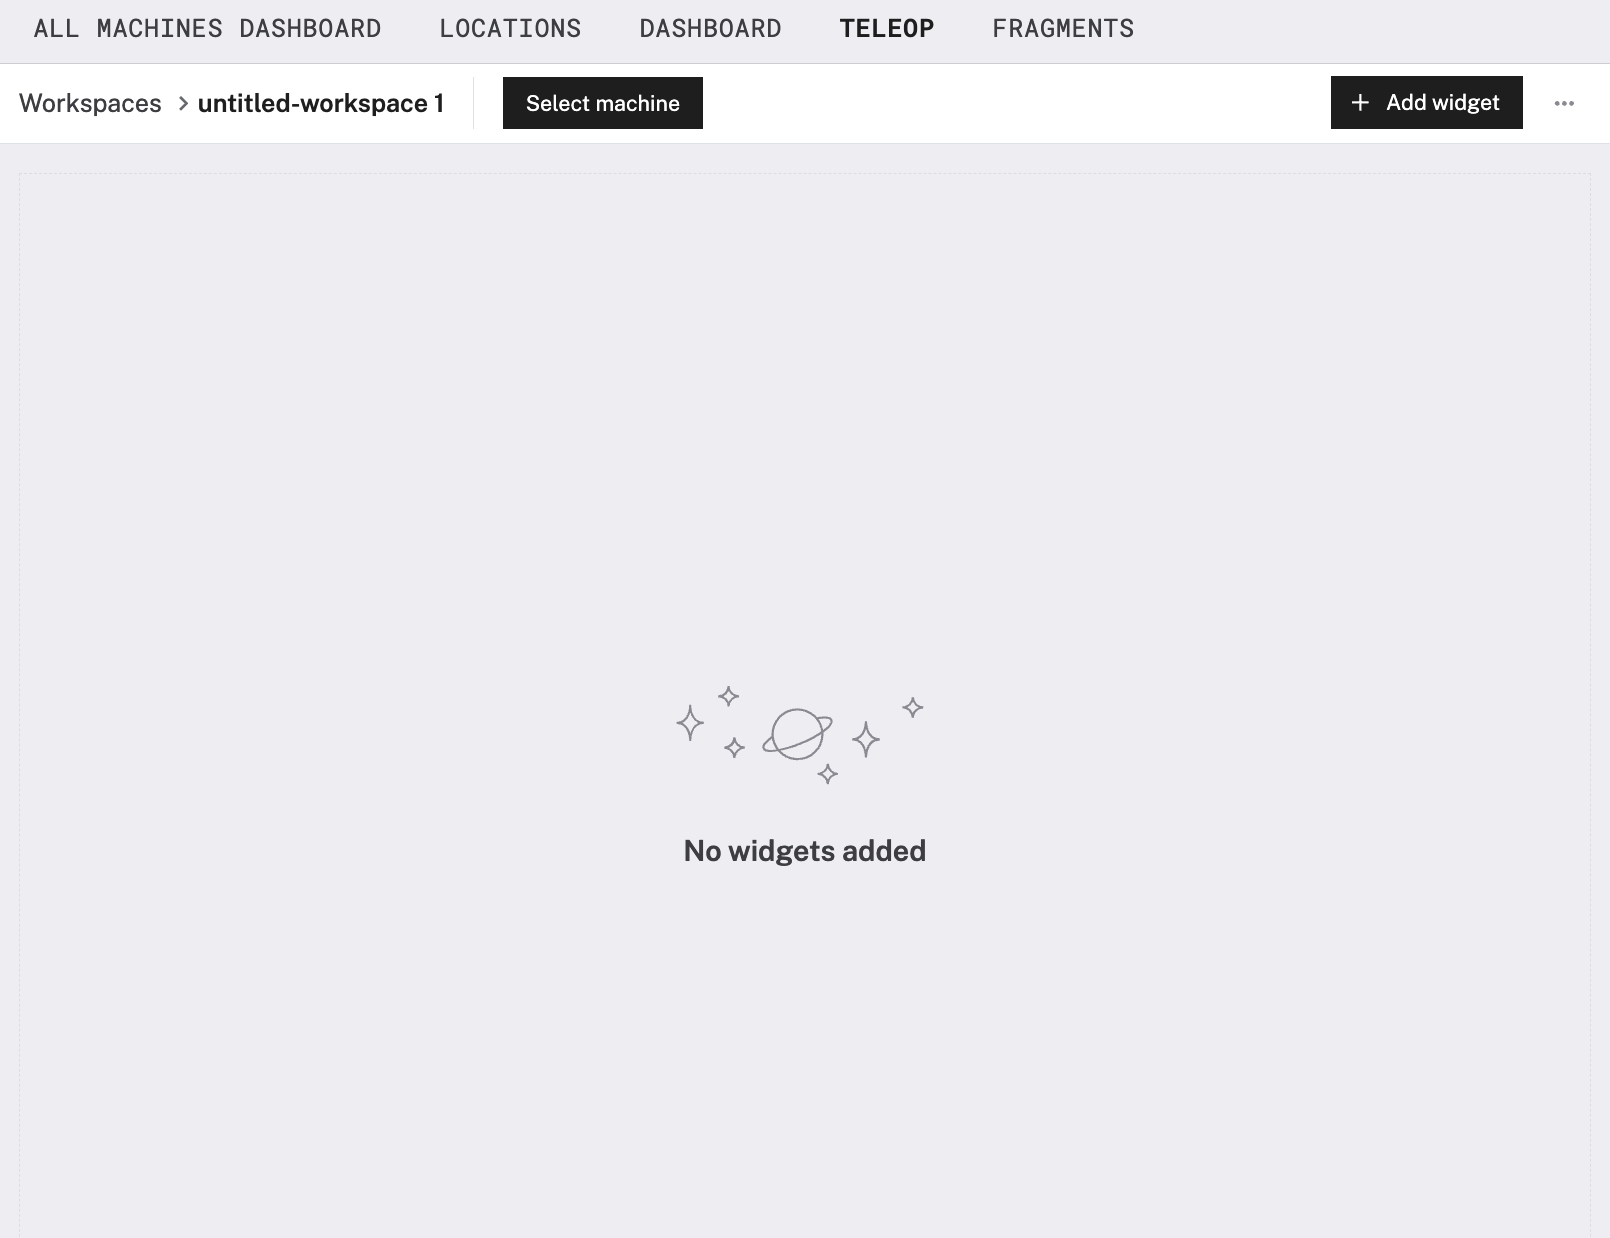
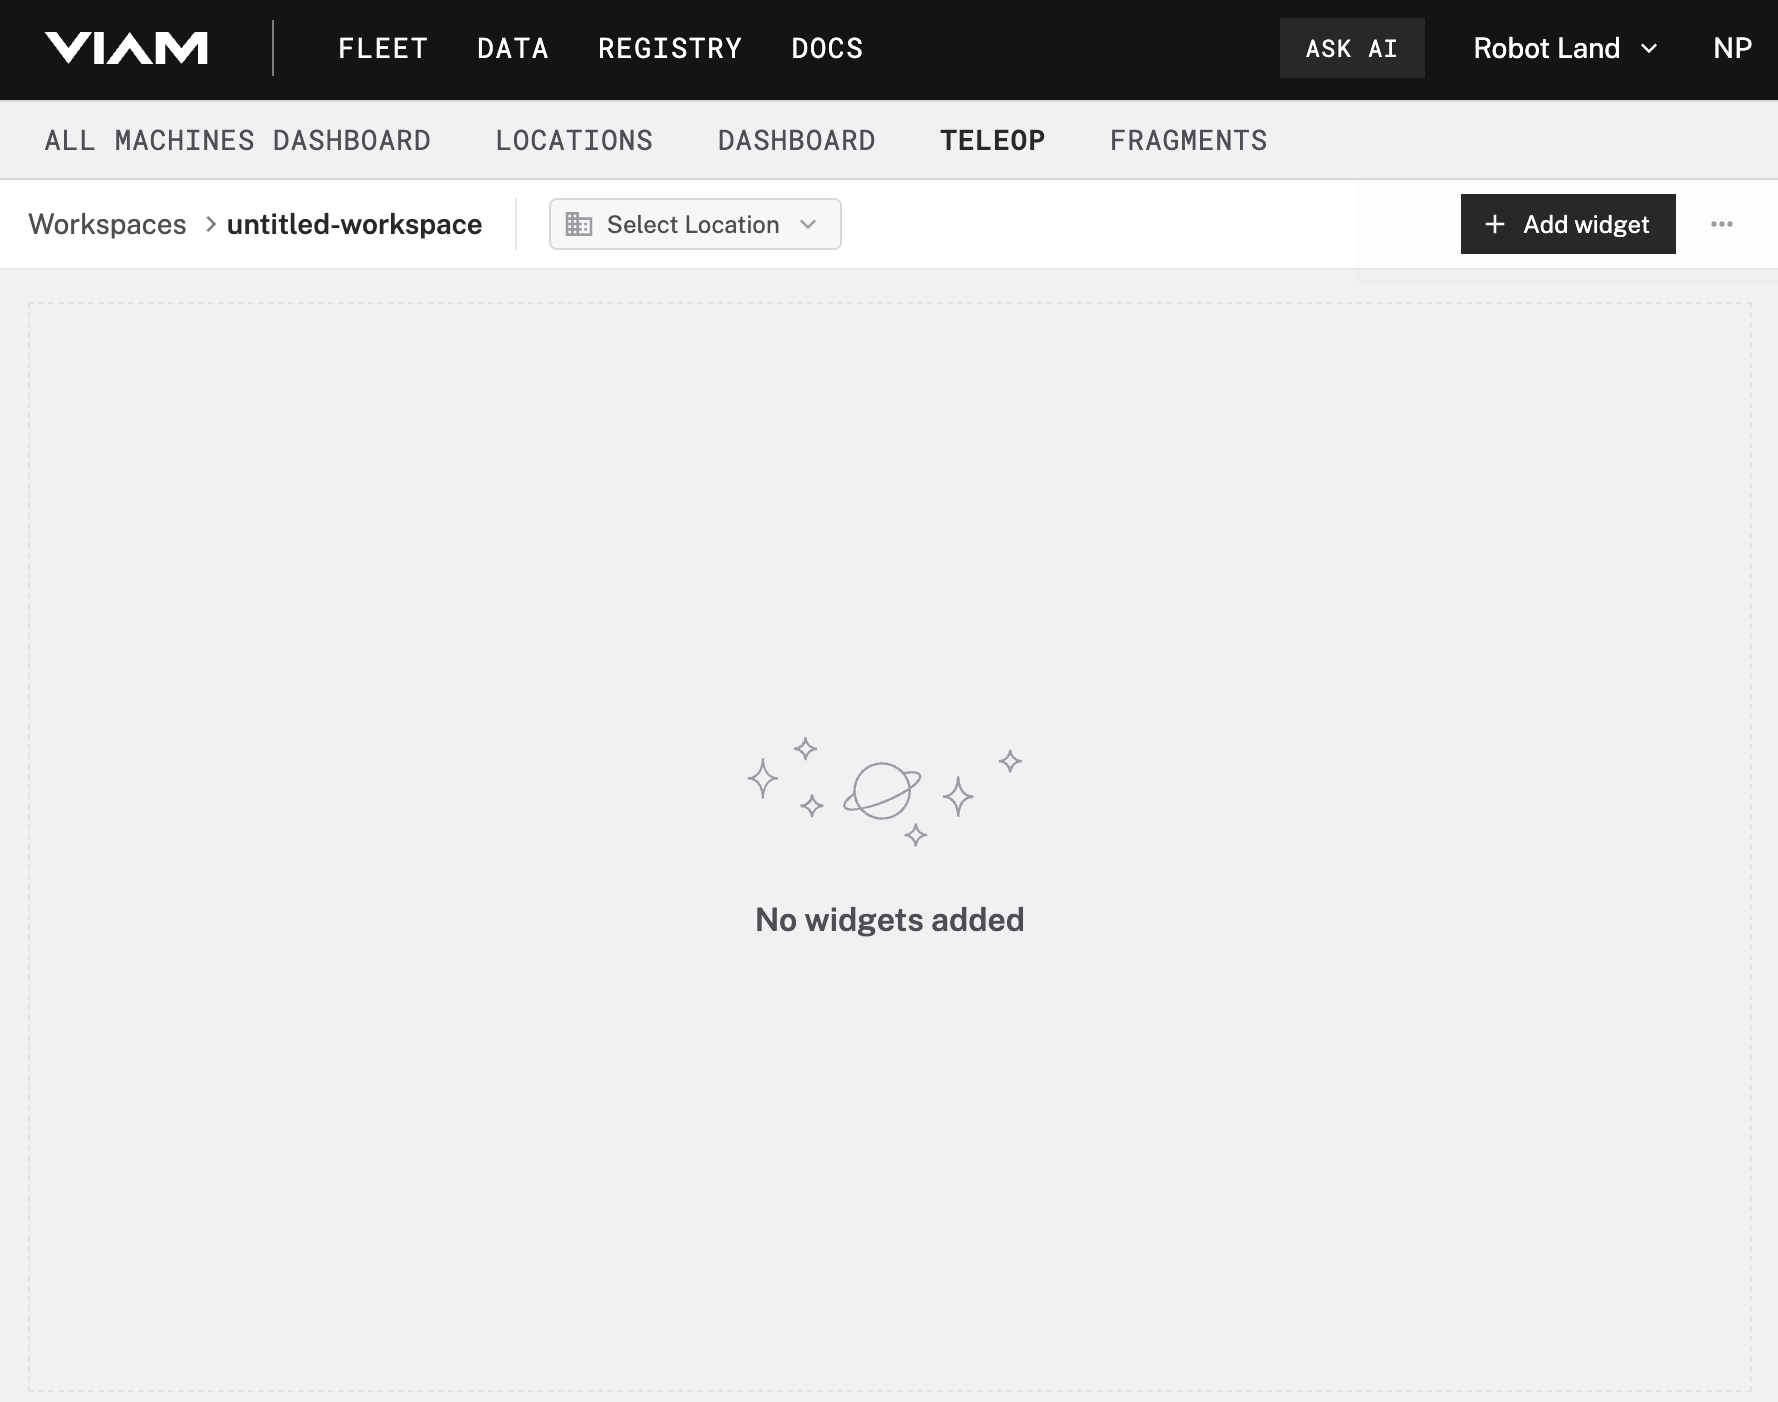
DOCS-4045: Update teleop interface (#4393)

diff --git a/docs/manage/troubleshoot/teleoperate/custom-interface.md b/docs/manage/troubleshoot/teleoperate/custom-interface.md
@@ -52,10 +52,10 @@ Repeat as many times as necessary.
 
 {{% /tablestep %}}
 {{% tablestep number=3 %}}
-**Select a machine**
+**Select a location and a machine**
 
-Now, select a machine with which to make your teleop workspace come to life.
-Click **Select machine** and select your configured machine.
+Now, select a location and a machine.
+This will make your widgets connect to your machine.
 
 Your dashboard now shows the configured widgets for the data from your machine:
 
